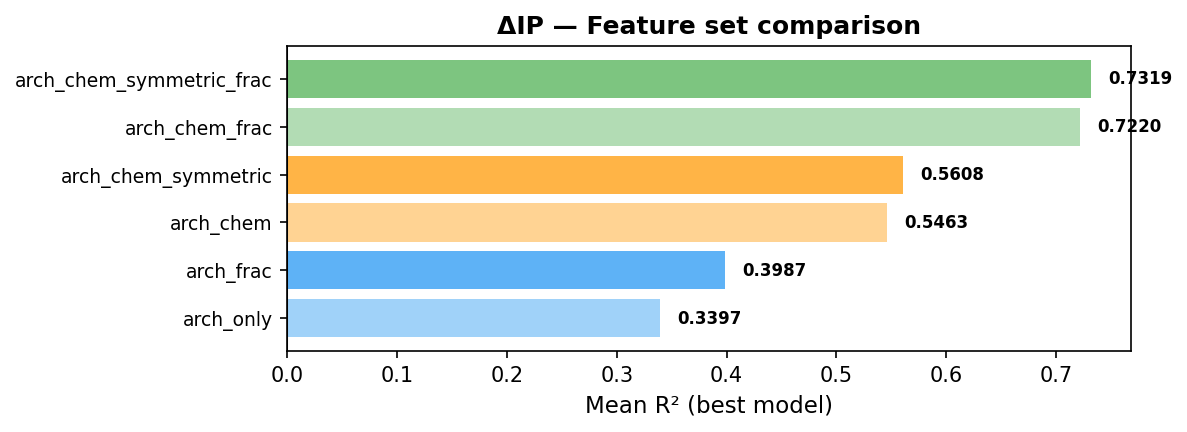
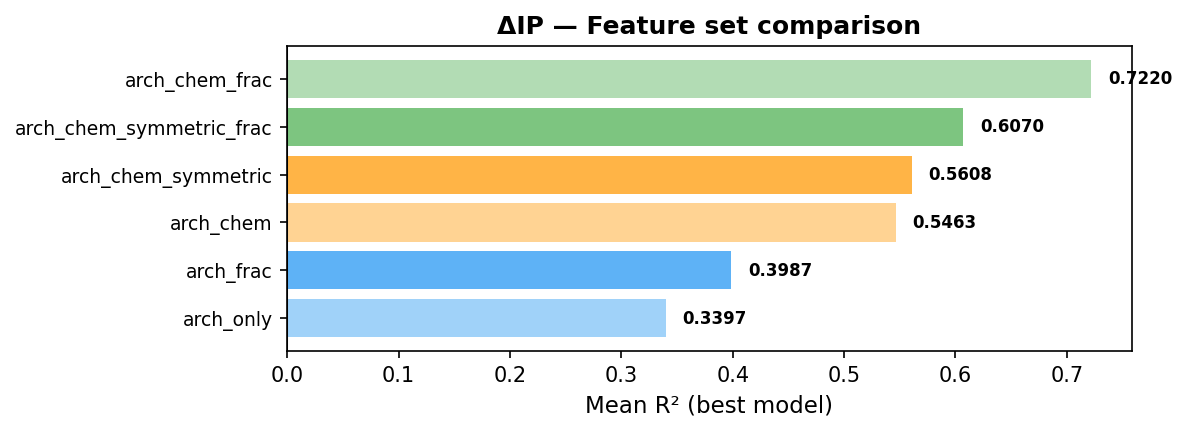
fix

diff --git a/scripts/python/train_graph.py b/scripts/python/train_graph.py
@@ -1464,35 +1464,6 @@ for target in target_columns:
             held_out_monomers=held_out_monomers, logger=logger
         )
     else:
-        # Check if we need to use LOMAO protocol for a_held_out splits
-        if getattr(args, 'split_type', 'random') == 'a_held_out' and any(col in df_input.columns for col in ['smiles_A', 'smilesA', 'smiles_A canonical', 'smilesA canonical']):
-            # Find the appropriate smiles_A column
-            possible_cols = ['smilesA', 'smiles_A', 'smilesA canonical', 'smiles_A canonical']
-            sA_col = None
-            for col in possible_cols:
-                if col in df_input.columns:
-                    sA_col = col
-                    break
-            if sA_col is None:
-                raise ValueError(f"No smiles_A column found for LOMAO protocol. Available columns: {list(df_input.columns)}")
-            valid_smiles_A = df_input[sA_col].astype(str).tolist()
-            
-            # Get protocol configuration (default to leave_one_A_out for new behavior)
-            protocol = getattr(args, 'a_held_out_protocol', 'leave_one_A_out')
-            n_splits_local = getattr(args, 'n_splits', 5)  # Only used for groupkfold protocol
-            
-            logger.info(f"Using A-held-out {protocol} CV (group by {sA_col})")
-            train_indices, val_indices, test_indices, held_out_monomers = generate_a_held_out_splits(
-                valid_smiles_A, len(all_data), SEED, n_splits=n_splits_local, protocol=protocol, logger=logger
-            )
-            
-            # Save fold assignments with held-out monomer information
-            save_fold_assignments(
-                train_indices, val_indices, test_indices,
-                valid_smiles_A, args.dataset_name, SEED, results_dir, 
-                held_out_monomers=held_out_monomers, logger=logger
-            )
-        else:
             if n_splits > 1:
                 logger.info(f"Using {n_splits}-fold cross-validation with {local_reps} replicate(s)")
             else: